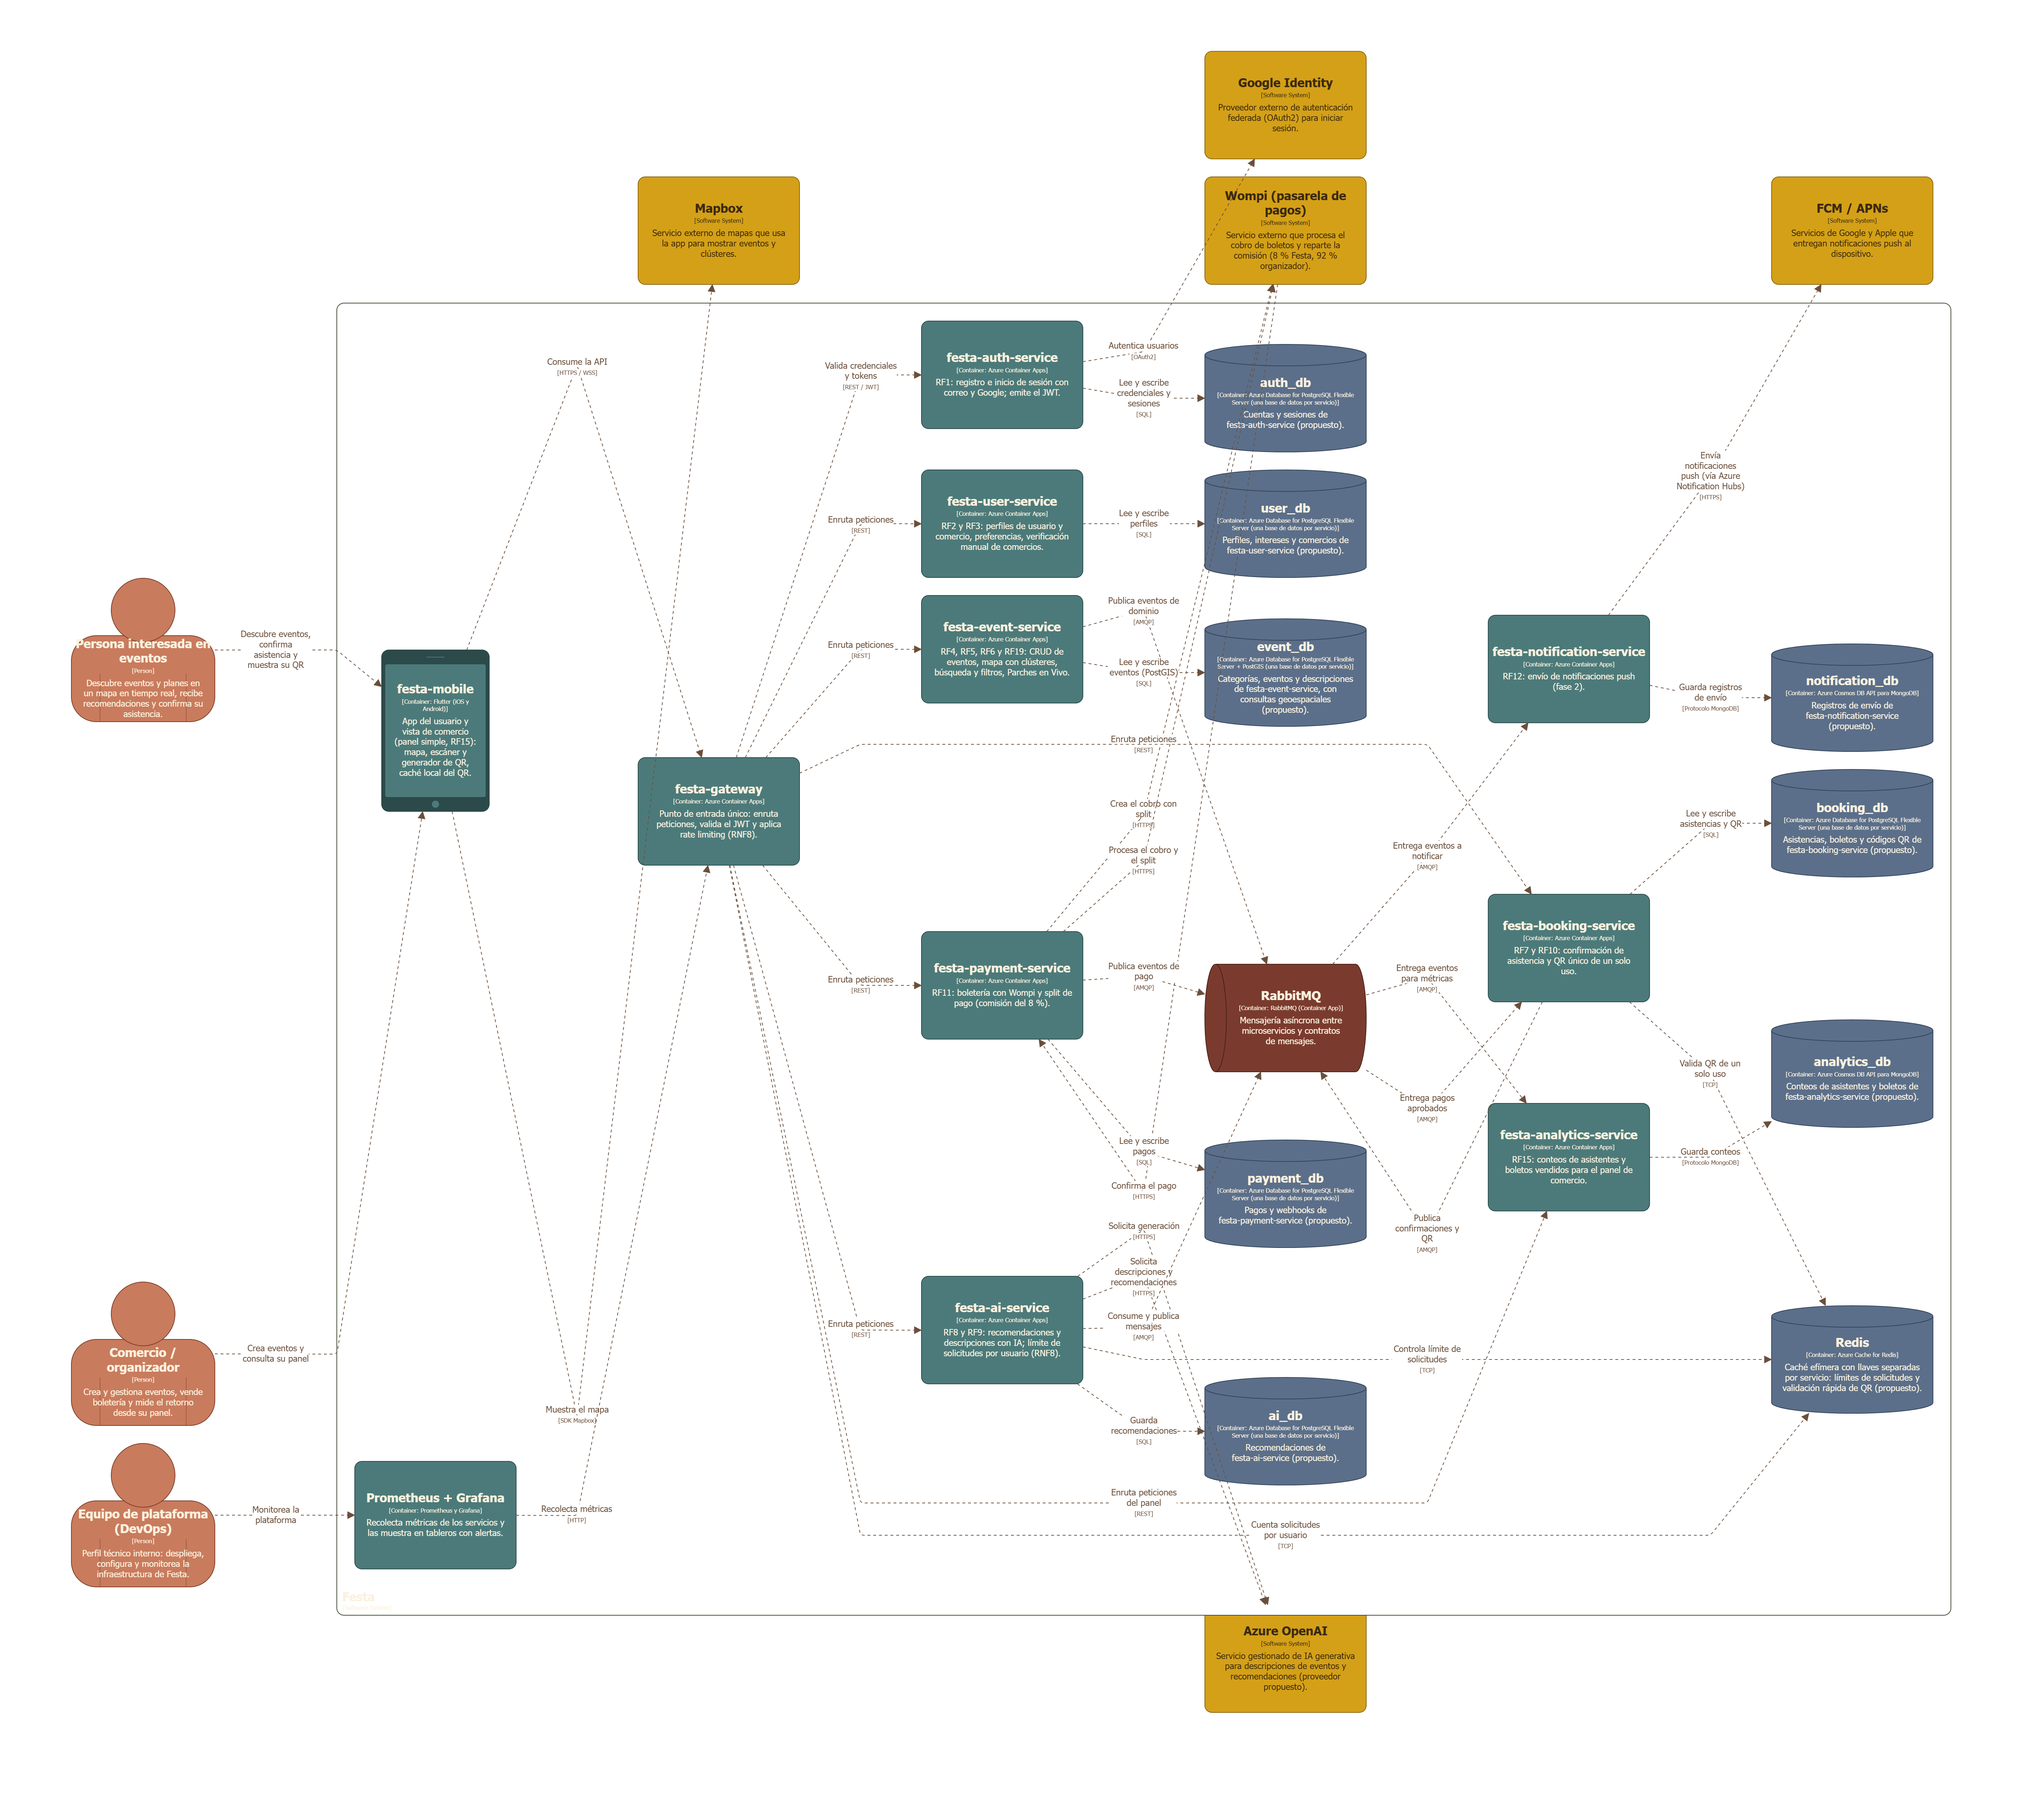
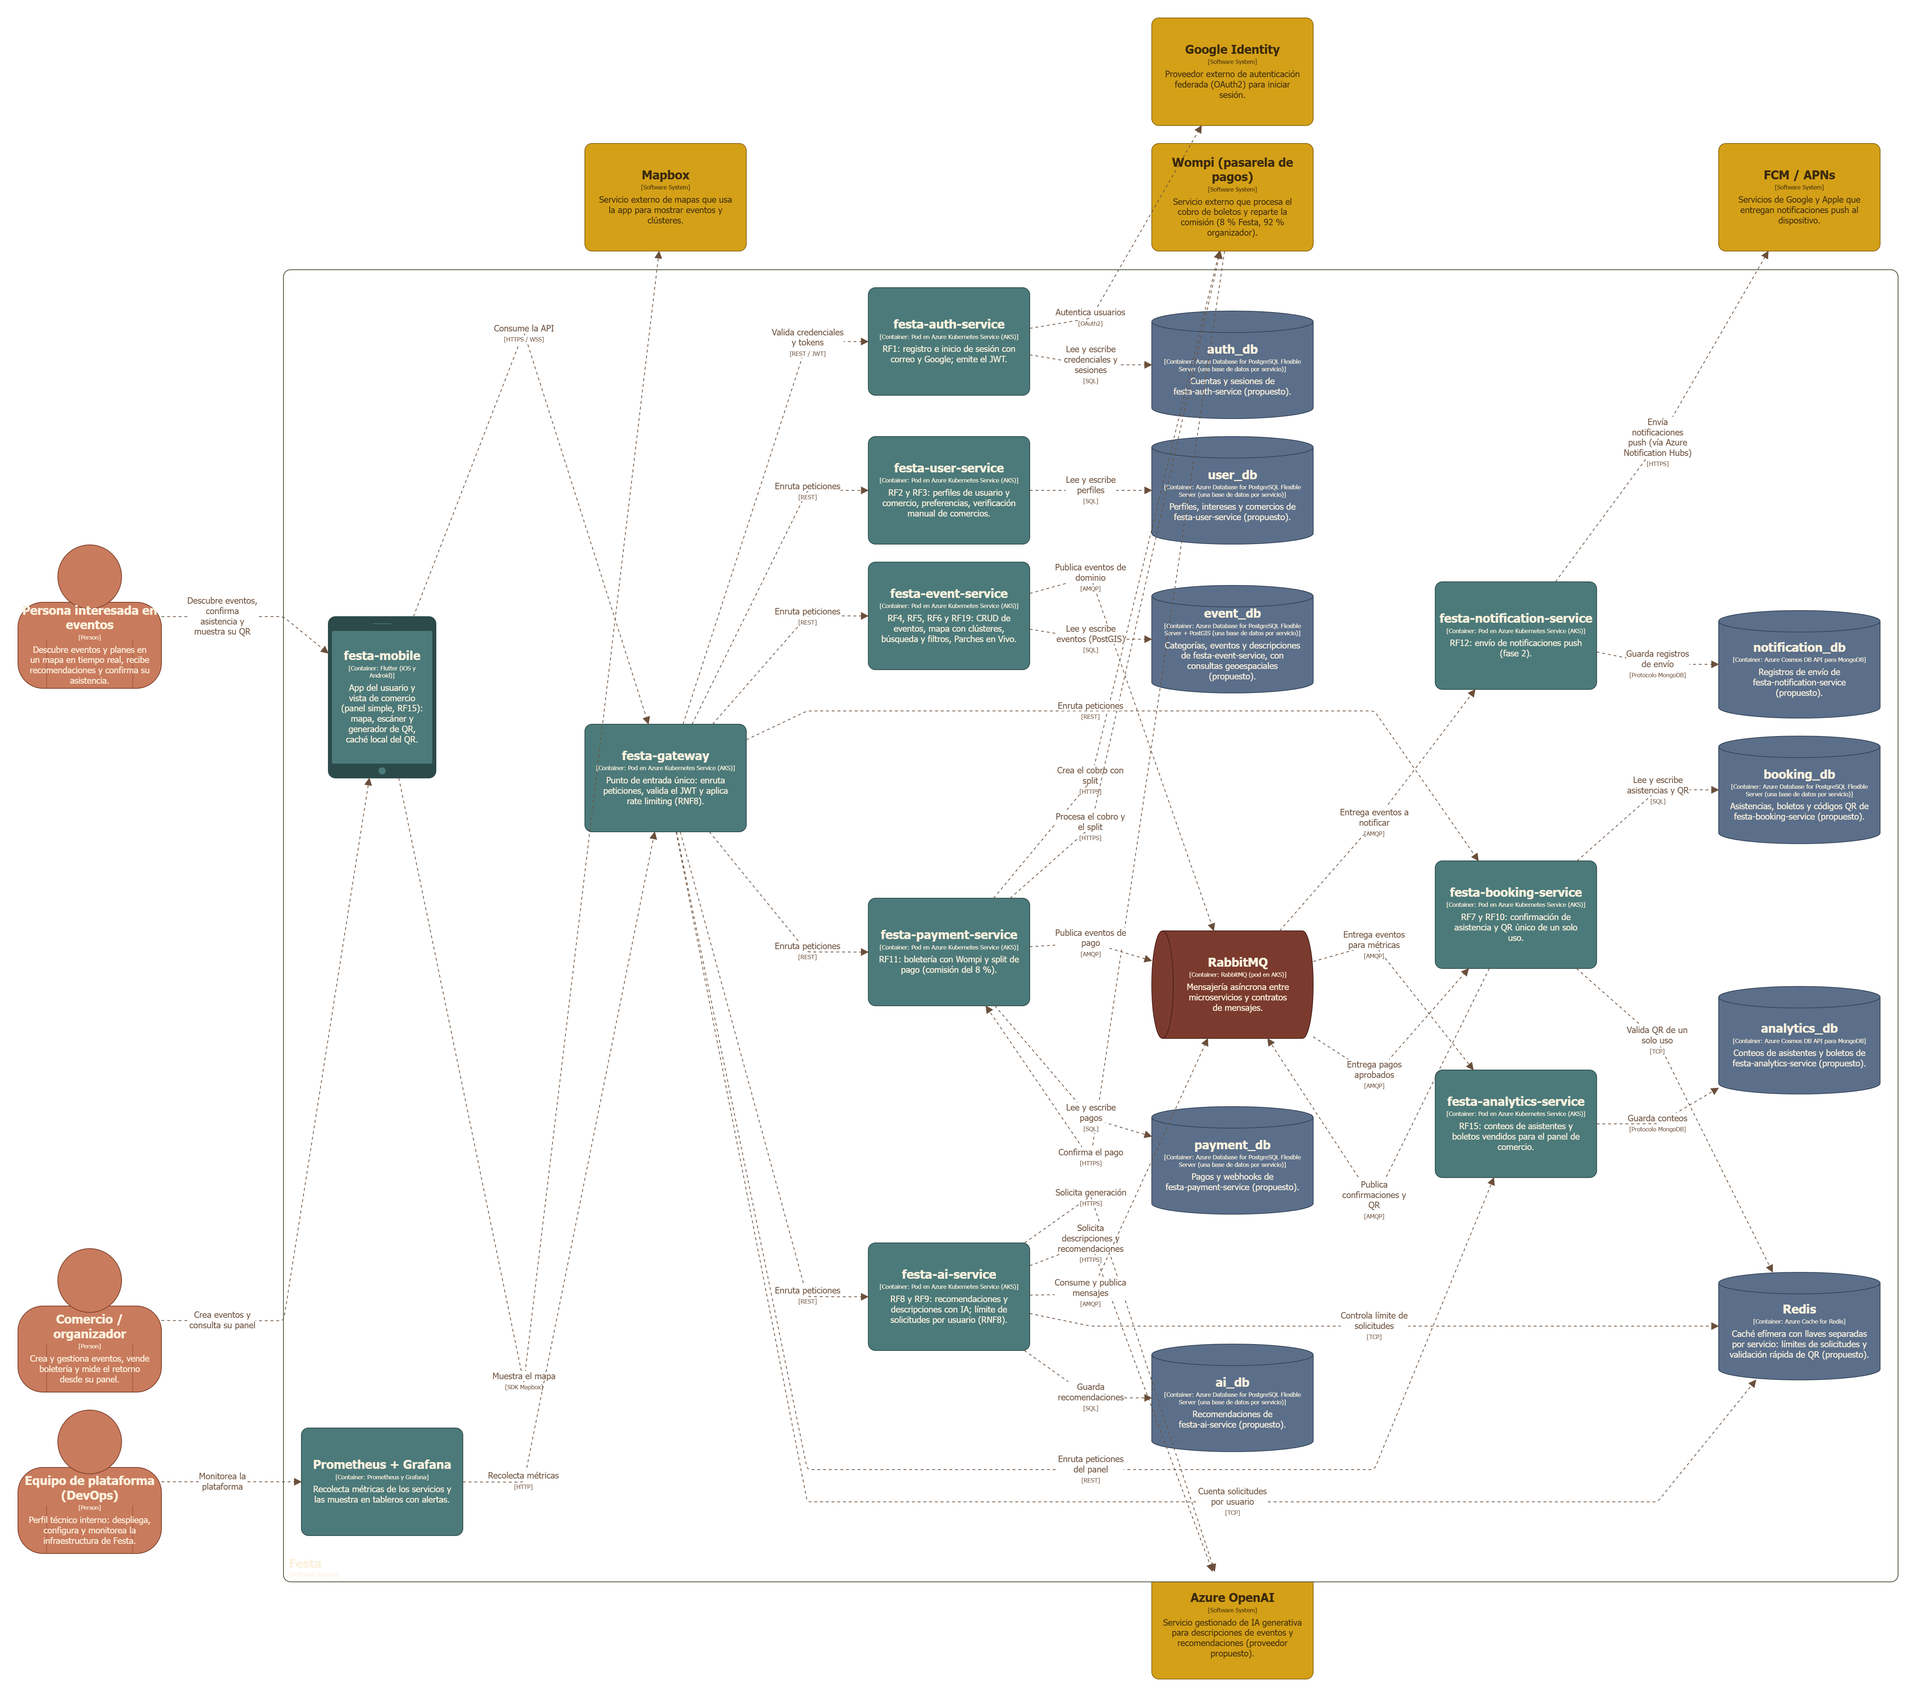
docs: cambia el despliegue de Container Apps a AKS en el C4 y en alcance.md

diff --git a/docs/arquitectura/alcance.md b/docs/arquitectura/alcance.md
@@ -77,15 +77,15 @@ Los planes y eventos locales se pierden entre publicaciones de redes sociales si
 | Contenedor (repositorio) | Tecnología | Responsabilidad | Requisitos |
 |---|:---:|---|:---:|
 | `festa-mobile` | Flutter (iOS y Android) | App del usuario y vista de comercio: mapa, escáner y generador de QR, caché local del QR. | RF5, RF15, RNF10 |
-| `festa-gateway` | Azure Container Apps | Punto de entrada único: enruta, valida el JWT y aplica rate limiting. | RNF4, RNF8 |
-| `festa-auth-service` | Azure Container Apps | Registro e inicio de sesión con correo y Google; emite el JWT. | RF1 |
-| `festa-user-service` | Azure Container Apps | Perfiles de usuario y comercio, preferencias y verificación manual de comercios. | RF2, RF3 |
-| `festa-event-service` | Azure Container Apps | CRUD de eventos, mapa con clústeres, búsqueda y filtros, Parches en Vivo. | RF4, RF5, RF6, RF19 |
-| `festa-booking-service` | Azure Container Apps | Confirmación de asistencia y QR de un solo uso. | RF7, RF10, RNF7 |
-| `festa-payment-service` | Azure Container Apps | Boletería con Wompi y split de pago (comisión del 8 %). | RF11, RNF6 |
-| `festa-ai-service` | Azure Container Apps | Recomendaciones y descripciones con IA; límite de solicitudes por usuario. | RF8, RF9, RNF8 |
-| `festa-notification-service` | Azure Container Apps | Envío de notificaciones push (fase 2). | RF12 |
-| `festa-analytics-service` | Azure Container Apps | Conteos de asistentes y boletos vendidos para el panel de comercio. | RF15 |
+| `festa-gateway` | Pod en AKS | Punto de entrada único: enruta, valida el JWT y aplica rate limiting. | RNF4, RNF8 |
+| `festa-auth-service` | Pod en AKS | Registro e inicio de sesión con correo y Google; emite el JWT. | RF1 |
+| `festa-user-service` | Pod en AKS | Perfiles de usuario y comercio, preferencias y verificación manual de comercios. | RF2, RF3 |
+| `festa-event-service` | Pod en AKS | CRUD de eventos, mapa con clústeres, búsqueda y filtros, Parches en Vivo. | RF4, RF5, RF6, RF19 |
+| `festa-booking-service` | Pod en AKS | Confirmación de asistencia y QR de un solo uso. | RF7, RF10, RNF7 |
+| `festa-payment-service` | Pod en AKS | Boletería con Wompi y split de pago (comisión del 8 %). | RF11, RNF6 |
+| `festa-ai-service` | Pod en AKS | Recomendaciones y descripciones con IA; límite de solicitudes por usuario. | RF8, RF9, RNF8 |
+| `festa-notification-service` | Pod en AKS | Envío de notificaciones push (fase 2). | RF12 |
+| `festa-analytics-service` | Pod en AKS | Conteos de asistentes y boletos vendidos para el panel de comercio. | RF15 |
 | RabbitMQ | RabbitMQ | Mensajería asíncrona entre microservicios y contratos de mensajes. | RNF2 |
 | Una base de datos por servicio | PostgreSQL (`auth_db`, `user_db`, `event_db` con PostGIS, `booking_db`, `payment_db`, `ai_db`) y Cosmos DB API MongoDB (`analytics_db`, `notification_db`) | Cada servicio es dueño de su base y de su modelo de datos; ninguno lee la base de otro. Motor por servicio: propuesta (ADR 0002). | RNF1 |
 | Redis | Azure Cache for Redis | Caché efímera con llaves separadas por servicio: límites de solicitudes y validación rápida de QR. | RNF1, RNF7, RNF8 |
